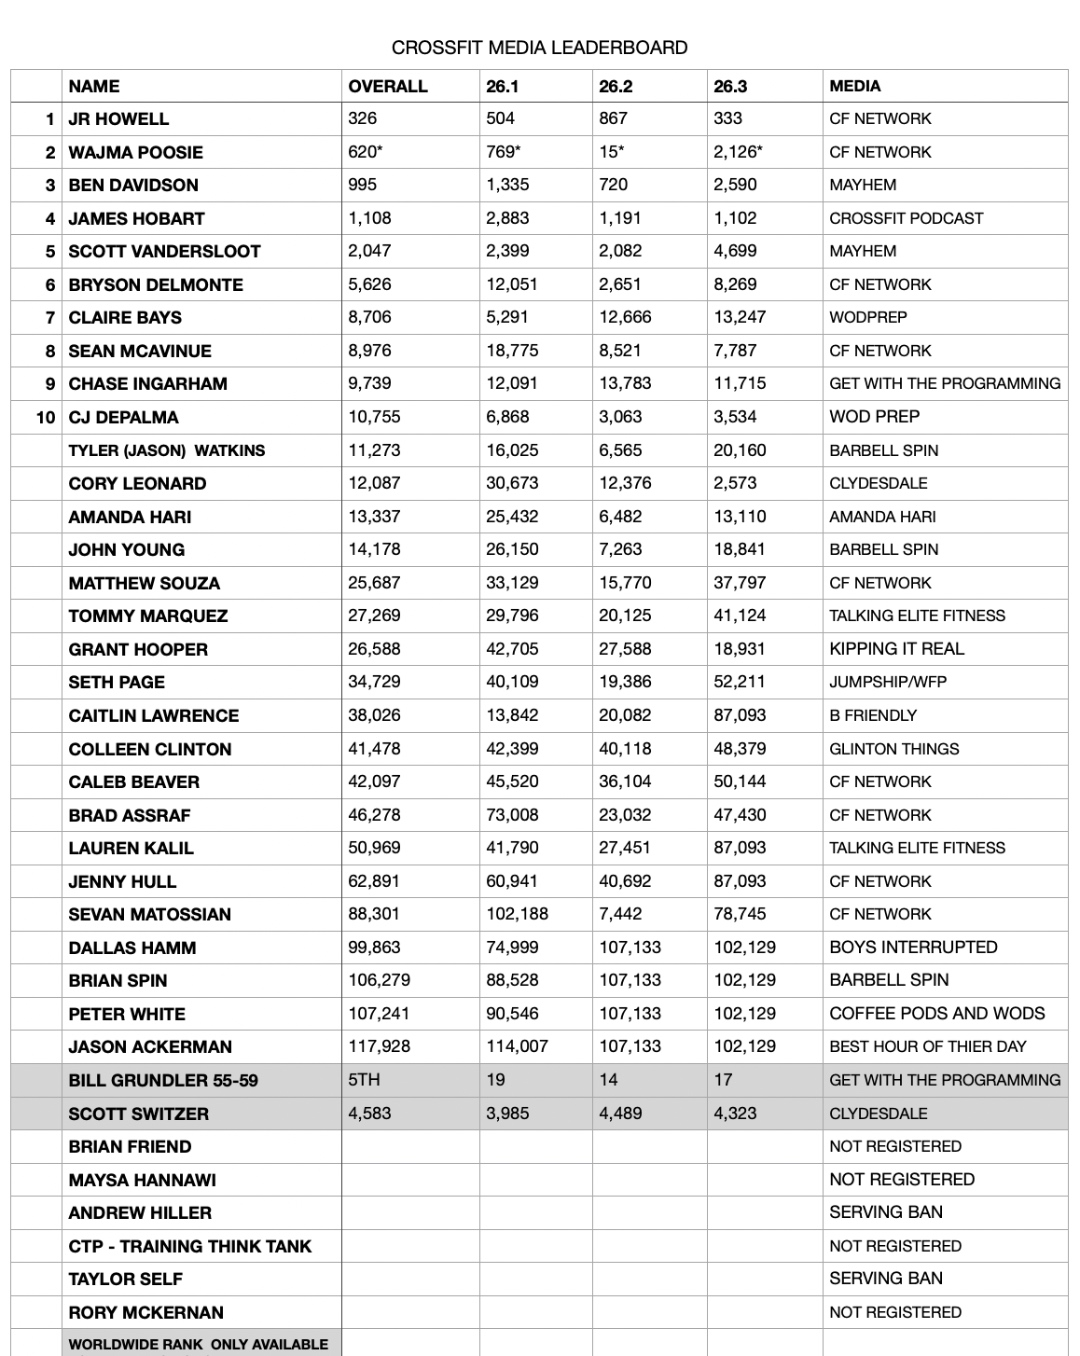
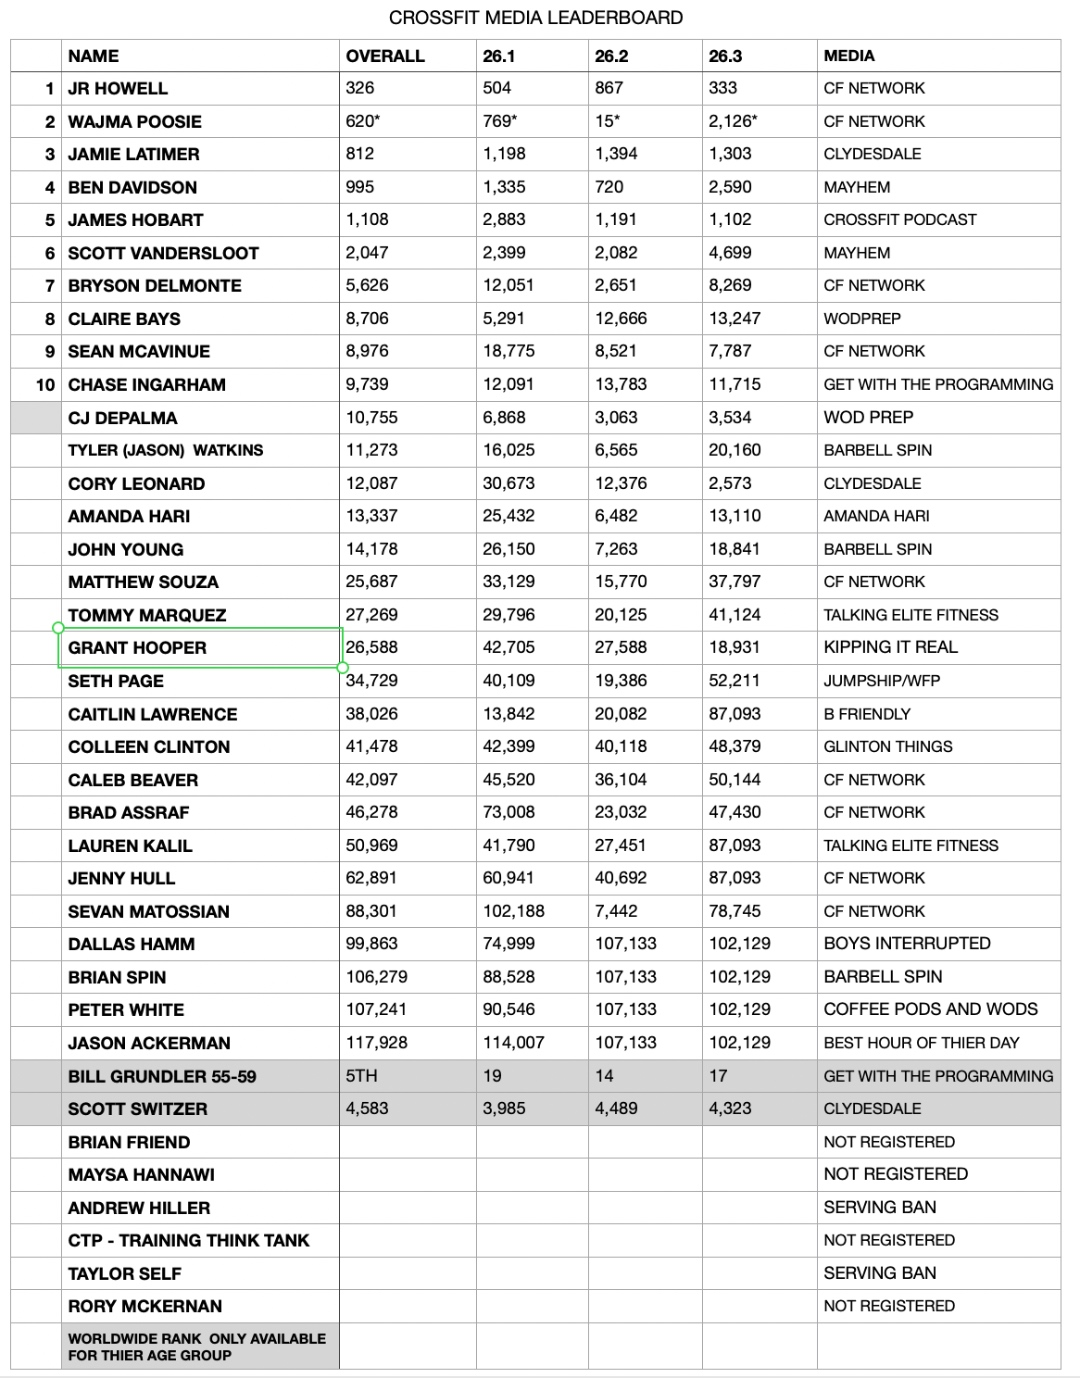
Update media leaderboard: add Jamie Latimer #3, new image

Changed region(s): [[0.0, 0.0, 1.0, 1.0]]

diff --git a/news.html b/news.html
@@ -90,7 +90,7 @@
       </div>
       <h3 class="card__title">CrossFit Media Leaderboard</h3>
       <p class="card__excerpt">We ranked the top CrossFit media personalities by their performance in the 2026 CrossFit Open using the rank-point scoring system.</p>
-      <p class="card__excerpt"><strong>Top 10:</strong> JR Howell of CrossFit Crash holds the #1 spot with an overall score of 326. Wajma Poosie comes in at #2 with an estimated score of 620 (not officially registered). Ben Davidson checks in at #3 with a score of 995. Rounding out the top 10: James Hobart (#4), Scott Vandersloot (#5), Bryson Delmonte (#6), Claire Bays (#7), Sean McAnuive (#8), Chase Ingraham (#9), and CJ DePalma (#10).</p>
+      <p class="card__excerpt"><strong>Top 10:</strong> JR Howell of CrossFit Crash holds the #1 spot with an overall score of 326. Wajma Poosie comes in at #2 with an estimated score of 620 (not officially registered). Jamie Latimer of Clydesdale Media checks in at #3 with a score of 812. Ben Davidson is #4 with a score of 995. Rounding out the top 10: James Hobart (#5), Scott Vandersloot (#6), Bryson Delmonte (#7), Claire Bays (#8), Sean McAvinue (#9), and Chase Ingraham (#10).</p>
       <p class="card__excerpt"><strong>Depth of Field:</strong> Beyond the top 10, the media leaderboard features Grant Hooper, Seth Page, Lauren Kalil, Caleb Beaver, Dallas Hamm, Sevan Matossian, Brian Spin, Peter White, Jason Ackerman, Bill Grundler, and Scott Switzer&mdash;all registered and competing in the 2026 Open.</p>
       <p class="card__excerpt"><strong>Not Registered:</strong> Brian Friend and Maysa Hannawi are notably absent from the Open leaderboard as neither registered for the 2026 season.</p>
       <p class="card__excerpt"><strong>Serving Bans:</strong> Andrew Hiller and Taylor Self are currently serving competition bans and are ineligible to participate in the 2026 Open.</p>

diff --git a/index.html b/index.html
@@ -80,7 +80,7 @@
         <span class="card__date">March 19, 2026</span>
       </div>
       <h3 class="card__title">CrossFit Media Leaderboard</h3>
-      <p class="card__excerpt">JR Howell of CrossFit Crash sits at #1 overall with a score of 326, making him the highest-ranked media personality in the 2026 CrossFit Open. Wajma Poosie checks in at #2 with an estimated score of 620, followed by Ben Davidson at #3 (995). The top 10 features a mix of podcast hosts, commentators, and content creators.</p>
+      <p class="card__excerpt">JR Howell of CrossFit Crash sits at #1 overall with a score of 326, making him the highest-ranked media personality in the 2026 CrossFit Open. Wajma Poosie checks in at #2 with an estimated score of 620, followed by Jamie Latimer of Clydesdale Media at #3 (812) and Ben Davidson at #4 (995). The top 10 features a mix of podcast hosts, commentators, and content creators.</p>
       <a href="./news.html#media-leaderboard" style="display:inline-block;margin-top:var(--space-2);font-weight:700;font-size:var(--text-sm);color:var(--color-primary);text-decoration:none;">Read Full Article &rarr;</a>
     </div>
 
